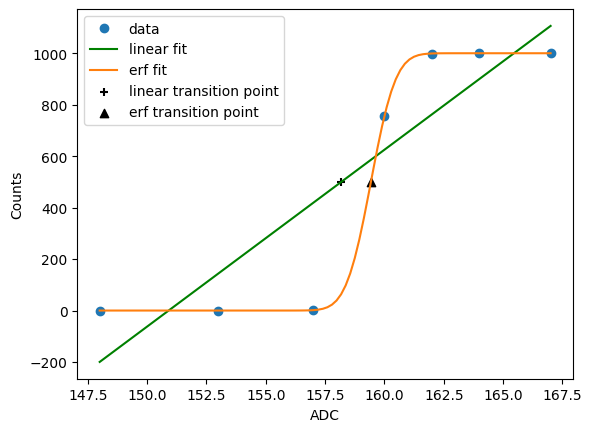
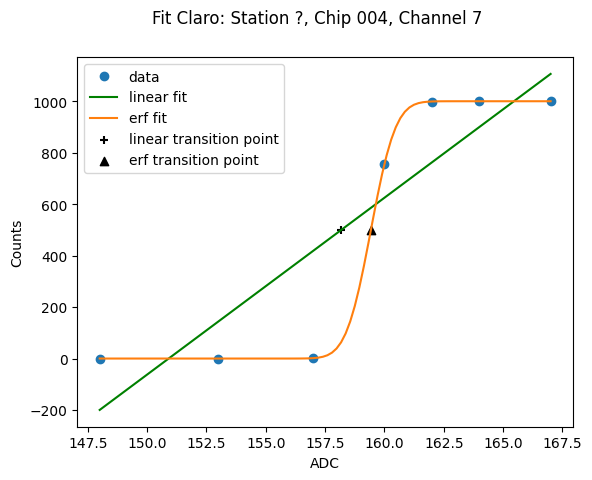
tweaked the code

diff --git a/claro/claro_class.py b/claro/claro_class.py
@@ -105,18 +105,18 @@ class LinearFit:
         self.linear_params = {
             "slope": model.slope,
             "intercept": model.intercept,
+            "half maximum height": half_max_height,
             "transition point (linear)": self.fitted_trans_point,
             "R_squared": model.rvalue**2,
-            "half maximum height": half_max_height,
         }
         return self.linear_params
 
     def print_linear_data(self):
-        print("The data obtained from the file is:")
+        print(f"The data obtained from the file is:")
         for key, value in self.meta.items():
             print(f"{key}: {value}")
         print("\n")
-        print("The data obtained from the linear fit is:")
+        print(f"The data obtained from the linear fit is:")
         for key, value in self.linear_fit().items():
             print(f"{key}: {value}")
         print("\n")
@@ -208,7 +208,7 @@ class ErrorFunctionFit:
         return self.erf_params
 
     def print_erf_data(self):
-        print("The data obtained from the erf fit is:")
+        print(f"The data obtained from the erf fit is:")
         for key, value in self.erf_fit().items():
             if key != "erf_x" and key != "erf_y":
                 print(f"{key} : {value}")
@@ -296,7 +296,7 @@ class Histogram:
 
 class HarryPlotter:
     """
-    HarryPlotter is a class for plotting data with linear and error function fits.
+    Class for plotting data with linear and error function fits.
 
     Attributes:
         path (str): Path to the data file.
@@ -308,10 +308,8 @@ class HarryPlotter:
 
     def __init__(self, path):
         """
-        The constructor for HarryPlotter class.
-
         Parameters:
-            path (str): Path to the data file.
+        path (str): Path to the data file.
         """
         self.path = path
         self.fileinfo = _get_fileinfo(self.path)
@@ -329,6 +327,10 @@ class HarryPlotter:
         Returns:
             None
         """
+        fig, ax = plt.subplots()
+        fig.suptitle(
+            f"Fit Claro: Station {self.fileinfo['station']}, Chip {self.fileinfo['chip']}, Channel {self.fileinfo['channel']}"
+        )
         plt.plot(self.data["x"], self.data["y"], "o", label="data")
         plt.plot(
             self.linear.x,

diff --git a/claro/claro_main.py b/claro/claro_main.py
@@ -5,16 +5,16 @@ from tqdm import tqdm
 
 input_path = input("Enter a file path or a single file: ")
 if not os.path.exists(input_path):
-    print("The file/folder does not exist.")
+    print(f"The file/folder does not exist.")
     exit()
 
 if os.path.isfile(input_path):
     if not input_path.endswith(".txt"):
-        print("This is not a .txt file.")
+        print(f"This is not a .txt file.")
         exit()
 
-    print("This is a single file. \n")
-    print("Analyzing one single file... \n")
+    print(f"This is a single file. \n")
+    print(f"Analyzing one single file... \n")
     single_file = cl.LinearFit(input_path)
     single_file.linear_fit()
     single_file.print_linear_data()
@@ -26,12 +26,12 @@ if os.path.isfile(input_path):
     single_file = cl.HarryPlotter(input_path)
     single_file.plotter()
 else:
-    print("This is a folder. \n")
+    print(f"This is a folder. \n")
     folder = cl.FolderReader(input_path)
     folder.read_folder()
 
     try:
-        with open("matching_files.txt", "r") as file:
+        with open(f"matching_files.txt", "r") as file:
             paths = file.readlines()
             paths = [path.strip() for path in paths]
             data_processed = []
@@ -59,5 +59,5 @@ else:
             single_file.create_histogram()
 
     except FileNotFoundError:
-        print("matching_files.txt does not exist.")
+        print(f"matching_files.txt does not exist.")
         exit()
